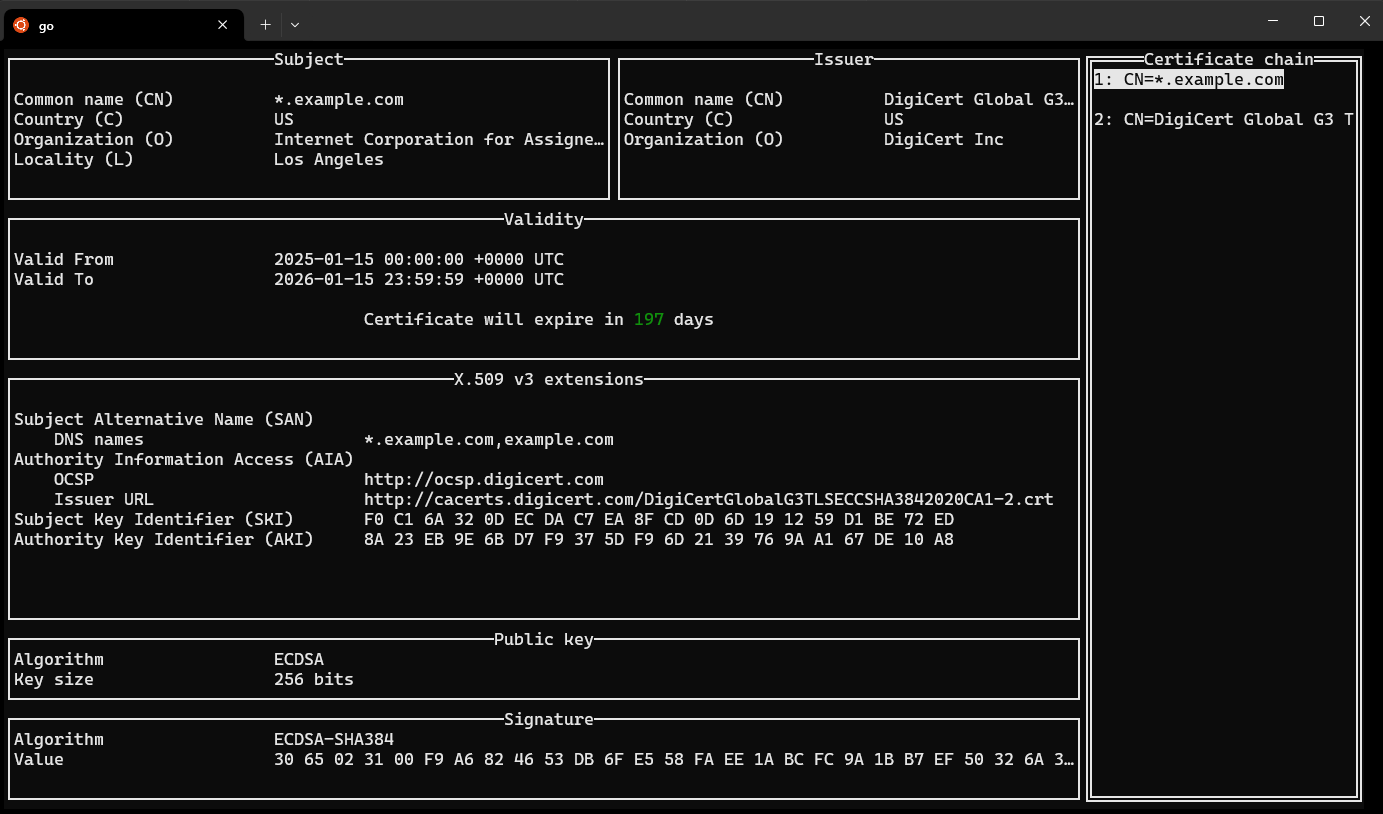
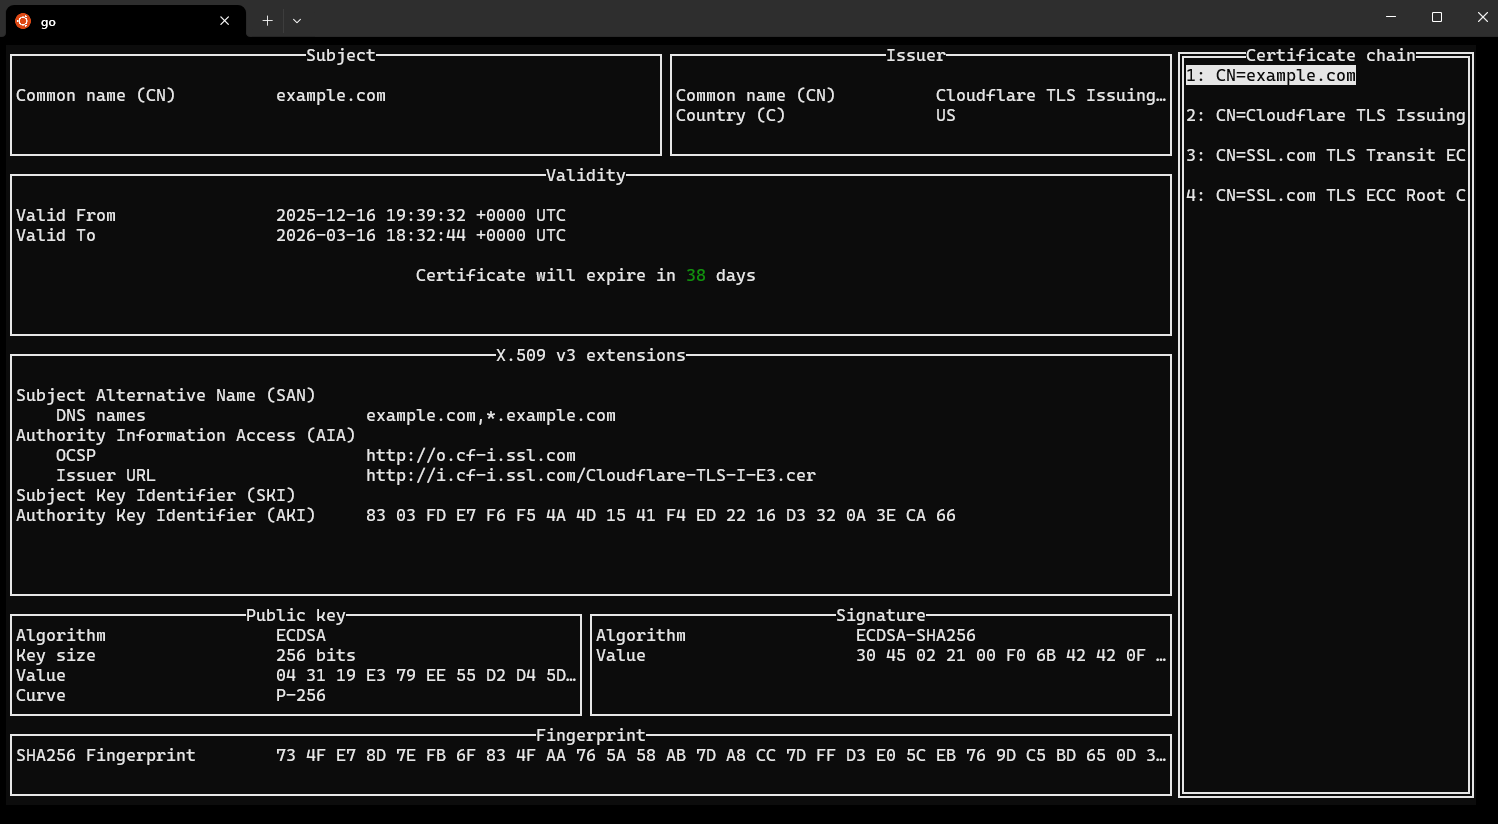
Update readme + screenshot

Changed region(s): [[0.0, 0.0, 1.0, 1.0]]

diff --git a/README.md b/README.md
@@ -10,6 +10,6 @@ Run cmd/main.go with one of the following flags
 
 ## URL Example
 ```bash
-go run cmd/main.go -url google.com
+go run cmd/main.go -url example.com
 ```
 ![url flag example](/assets/screenshot_url_flag.png)
